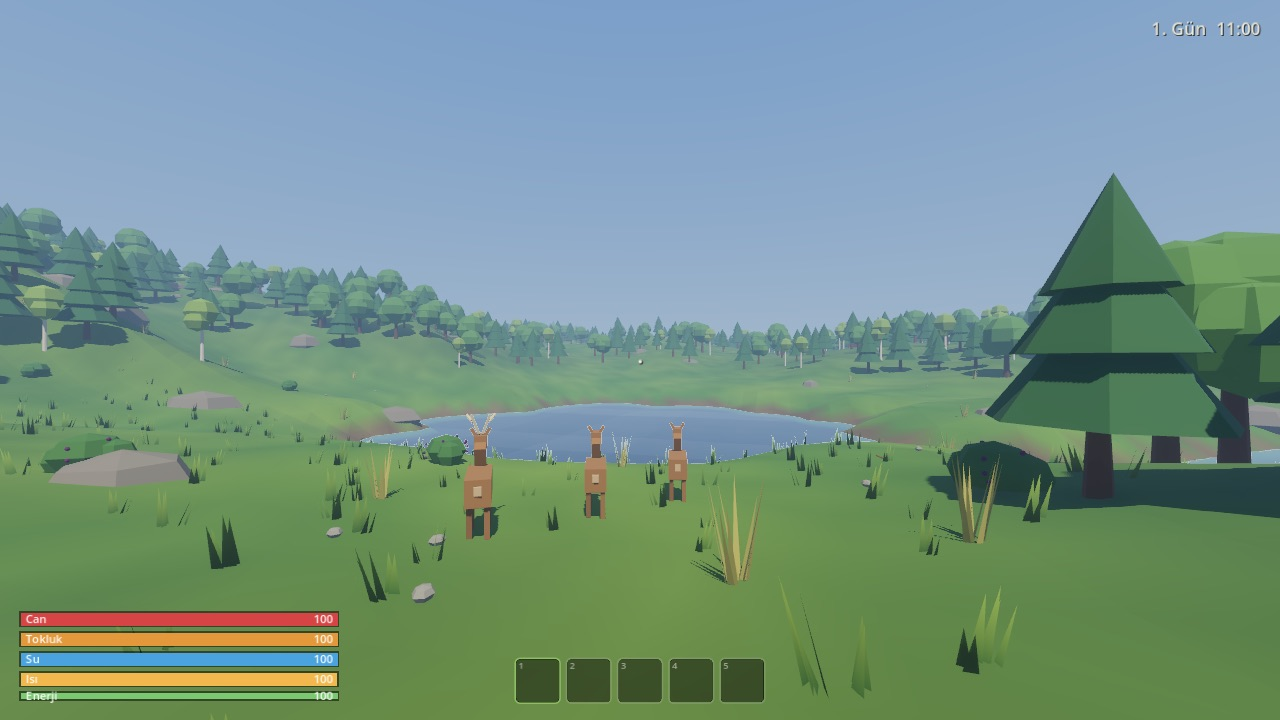
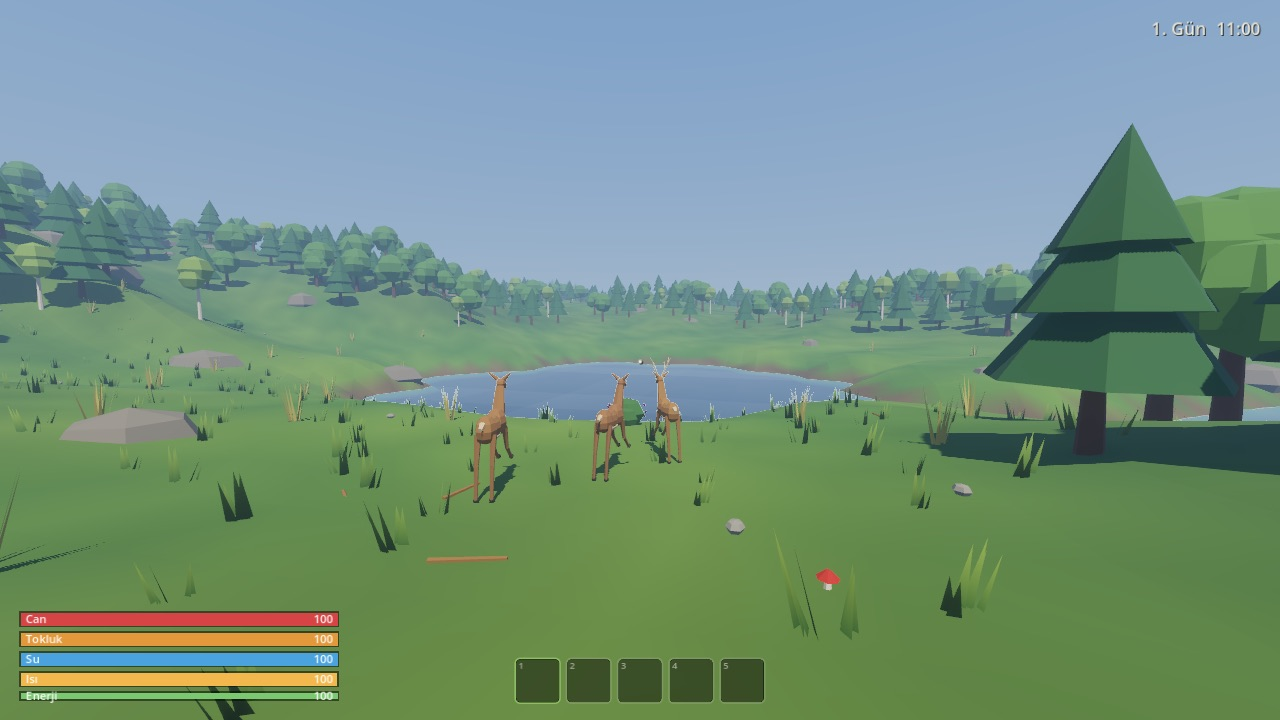
README: yeni hayvanlar, balık avı ve mağaralar; ekran görüntüleri

diff --git a/README.md b/README.md
@@ -9,7 +9,9 @@ The Forest'tan esinlendi ama **zombi, yamyam ya da gece saldırısı yok**. Tehl
 | | |
 |---|---|
 | ![Gündüz](docs/screenshots/gunduz.jpg) | ![Envanter ve üretim](docs/screenshots/envanter.jpg) |
-| ![Geyikler](docs/screenshots/geyikler.jpg) | ![Kurtlar meşale ışığında](docs/screenshots/kurtlar.jpg) |
+| ![Geyikler](docs/screenshots/geyikler.jpg) | ![Kurtlar](docs/screenshots/kurtlar.jpg) |
+| ![Ayı](docs/screenshots/ayi.jpg) | ![Mağara ağzı](docs/screenshots/magara_agzi.jpg) |
+| ![Olta ile balık avı](docs/screenshots/olta.jpg) | ![Meşaleyle mağara içi](docs/screenshots/magara_ici.jpg) |
 
 ## Özellikler
 
@@ -21,17 +23,28 @@ The Forest'tan esinlendi ama **zombi, yamyam ya da gece saldırısı yok**. Tehl
   - Suda dayanıklılık biterse boğuluyorsun.
 - **Toplama ve üretim:**
   - Yerde dal ve taş, uzun otlarda lif, çalılarda böğürtlen, ormanda mantar bulunuyor. Toplananlar birkaç gün sonra yeniden çıkıyor.
-  - Üretilebilenler: ip, taş bıçak, taş balta, mızrak, meşale, bitki bandajı ve deri giysi.
+  - E basıldığı anda çalışıyor; yerdeki eşyalara tam nişan almak gerekmiyor. E basılı tutulunca art arda toplanıyor.
+  - Büyük kayalar baltayla kırılıp taş veriyor.
+  - Üretilebilenler: ip, taş bıçak, taş balta, mızrak, meşale, bitki bandajı, deri giysi ve olta.
 - **Ağaç kesme:** Baltayla kesilen ağaç devriliyor, geriye kütük ve dal bırakıyor.
 - **Kamp ateşi:**
   - Yakıtla yanıyor; ışık ve ısı veriyor, kurtları uzak tutuyor.
   - Üstünde üç pişirme yeri var. Et pişiyor; fazla beklersen yanıyor.
   - Metal kapla su kaynatılıyor.
 - **İnşa:** Yeşil/kırmızı önizlemeyle kamp ateşi, dal barınak ve saklama sandığı kurulabiliyor. Barınakta gece uyuyup sabaha atlanıyor, gündüz dinlenip kaydediliyor.
-- **Hayvanlar:**
-  - Geyik sürüleri ürkek: eğilerek yaklaşman gerekiyor.
-  - Kurt sürüleri önce etrafında dönüyor, sonra saldırıyor. Yanan ateşin çevresine girmiyorlar, meşaleye mesafe koruyorlar. Yaralanınca kaçıyorlar.
+- **Hayvanlar:** Hepsi iki eklemli bacaklı, kaslı low-poly modellerle çiziliyor; engellerin etrafından dolaşıyorlar.
+  - **Geyik:** Sürüyle otluyor. Fark edince başını kaldırıp bakıyor, yaklaşınca sekerek ve zikzak çizerek kaçıyor; sürü aynı yöne kaçıyor, güvenli mesafede durup geri bakıyor.
+  - **Tavşan:** Açıklıklarda otluyor, keskin zikzaklarla kaçıp saklanıyor.
+  - **Kurt:** Zayıf ve uzun bacaklı. Sürüyle önce etrafında dönüyor, sonra saldırıyor; ısırıp geri çekiliyor. Ateşin çevresine girmiyor, meşaleye mesafe koruyor, yaralanınca kaçıyor.
+  - **Ayı:** Sık ormanda ve mağarada yaşıyor. Arka ayakları üstüne kalkıp kükreyerek uyarıyor; uzaklaşırsan bırakıyor, yaklaşırsan saldırıyor. Koşarak kaçılamıyor, ateşe yaklaşmıyor.
+  - **Yılan:** Otlarda ve mağaralarda kıvrılıp yatıyor; çok yaklaşınca tıslıyor, sonra zehirli ısırıyor.
+  - **Kuşlar:** Yerde gagalıyor, yaklaşınca havalanıp başka yere konuyor; kıyıda martılar dönüyor.
   - Leşi bıçakla kesince et ve deri alınıyor. Mızrak fırlatılabiliyor.
+- **Balıklar:** Gölde ve kıyıya yakın denizde balık sürüleri var. Mızrakla vurulan balık yüzeye çıkıyor. Oltayı suya atınca şamandıra batana kadar bekliyorsun, sonra E ile çekiyorsun; geç kalırsan balık kaçıyor.
+- **Mağaralar:** Yamaçlardaki kaya kemerli ağızlardan giriliyor. İçerisi meşalesiz zifiri karanlık ama rüzgarsız ve ılık.
+  - **Ayı ini:** Geniş bir odada uyuyan bir ayı ve eski bir kampçının erzakı var.
+  - **Labirent:** İç içe tüneller; öbür ucu deniz kıyısındaki ikinci bir ağızdan çıkıyor.
+  - **Yılan mağarası:** Küçük, içinde yılanlar ve biraz ganimet var.
 - **Kayıt:** Uyuyunca, duraklatma menüsünden ya da F5 ile kaydediliyor. Kesilen ağaçlar, yapılar, yerdeki eşyalar, hayvanlar ve leşler de kayda giriyor.
 - **Ses:** Rüzgar, kuşlar, cırcır böcekleri, uzaktan kurt ulumaları, ateş çıtırtısı, ayak sesleri ve balta darbeleri var. Sesler `tools/gen_sfx.gd` ile prosedürel üretiliyor.
 - **Arayüz:** Türkçe. Yeni oyuncuya bağlama göre ipucu veriyor, klavye/fare ve gamepad'i destekliyor.
@@ -65,7 +78,7 @@ godot --editor --path .
 | Koşma | Shift | Sol çubuğa bas |
 | Zıplama | Space | A |
 | Eğilme | Ctrl / C | Sağ çubuğa bas |
-| Etkileşim (basılı tutulabilir) | E | X |
+| Etkileşim / topla (basılı tutunca art arda) | E | X |
 | Vur / ye / kullan | Sol tık | RT |
 | Mızrak fırlat / inşayı iptal et | Sağ tık | LT |
 | Envanter ve üretim | Tab / I | Y |
@@ -84,7 +97,9 @@ godot --editor --path .
 5. Geyiğe eğilerek yaklaş. Mızrakla vur ya da sağ tıkla fırlat. Leşi **taş bıçakla** kes.
 6. Çiğ eti ateşte pişir, ham suyu metal kapla kaynat.
 7. Kütükleri topla, **dal barınak** kur. Gece uyuyup sabaha atla; oyun kaydedilir.
-8. Kurtlar gelince ateşin yanında kal ya da meşaleyi elinde tut.
+8. Kurtlar gelince ateşin yanında kal ya da meşaleyi elinde tut. Ayıdan koşarak kaçamazsın: kükrerse yavaşça uzaklaş.
+9. Balık için mızrak ya da olta kullan; balığı da ateşte pişir.
+10. Mağaralara meşalesiz girme. Ayı inindeki erzak değerli ama ayıyı uyandırma.
 
 ## Tarifler
 
@@ -97,6 +112,7 @@ godot --editor --path .
 | Meşale | 1 dal, 2 lif |
 | Bitki bandajı | 4 lif |
 | Deri giysi | 3 deri, 2 ip |
+| Olta | 2 dal, 1 ip |
 | **Kamp ateşi** (inşa) | 4 taş, 4 dal |
 | **Dal barınak** (inşa) | 4 kütük, 10 dal, 2 ip |
 | **Saklama sandığı** (inşa) | 3 kütük, 1 ip |
@@ -146,11 +162,11 @@ godot --headless --path . -s res://tools/gen_sfx.gd
 godot --path . -- --seed=42 --time=21.5 --campfire=cook --give=torch:1 --shot=/tmp/gece.png
 ```
 
-Diğer argümanlar: `--pos=x,z`, `--height=m`, `--yaw`, `--pitch`, `--atlake`, `--stats=can,tokluk,su,ısı`, `--animal=wolf:3`, `--place=shelter`, `--ghost=campfire`, `--inventory`, `--pause`, `--menu`, `--fpsprobe`.
+Diğer argümanlar: `--pos=x,z`, `--height=m`, `--yaw`, `--pitch`, `--atlake`, `--stats=can,tokluk,su,ısı`, `--animal=wolf:3` (deer, rabbit, bear, snake), `--place=shelter`, `--ghost=campfire`, `--fishing`, `--mouth=0`, `--cave=0`, `--inventory`, `--pause`, `--menu`, `--fpsprobe`.
 
 ### Gerçek hayvan modelleri (isteğe bağlı)
 
-Oyun, tamamı koddan üretilen yer tutucu low-poly modellerle çalışır. `assets/models/animals/` klasörüne Quaternius *Ultimate Animated Animals* paketinden (CC0) `Deer.gltf`, `Stag.gltf` ve `Wolf.gltf` dosyalarını koyarsan oyun otomatik olarak bunları kullanır. Animasyonlar isimlerinden eşlenir. Ayrıntılar için [assets/models/animals/README.md](assets/models/animals/README.md) dosyasına bak.
+Oyun, tamamı koddan üretilen yer tutucu low-poly modellerle çalışır. `assets/models/animals/` klasörüne Quaternius *Ultimate Animated Animals* paketinden (CC0) `Deer.gltf`, `Stag.gltf` ve `Wolf.gltf` dosyalarını (ayı için `Bear.gltf`) koyarsan oyun otomatik olarak bunları kullanır. Animasyonlar isimlerinden eşlenir. Ayrıntılar için [assets/models/animals/README.md](assets/models/animals/README.md) dosyasına bak.
 
 ### Dışa aktarma (macOS / Windows)
 
@@ -175,6 +191,9 @@ godot --headless --path . --export-release "Windows Desktop" export/windows/Orma
 - [ ] Ham suyu kaynat.
 - [ ] Barınak kur; gece uyu ve sabah oyunun kaydedildiğini gör.
 - [ ] Gece kurtlardan ateş ya da meşaleyle korun.
+- [ ] Tavşan ve geyiğin kaçışını izle; bir ayının uyarısını gör ve uzaklaş.
+- [ ] Oltayla ve mızrakla balık tut, pişir.
+- [ ] Meşaleyle bir mağaraya gir; labirentten kıyıya çık.
 - [ ] Oyunu kaydet, ana menüye dön, "Devam et" ile yükle.
 - [ ] Aç ya da susuz kalıp öl; ölüm ekranını ve rekoru gör.
 
